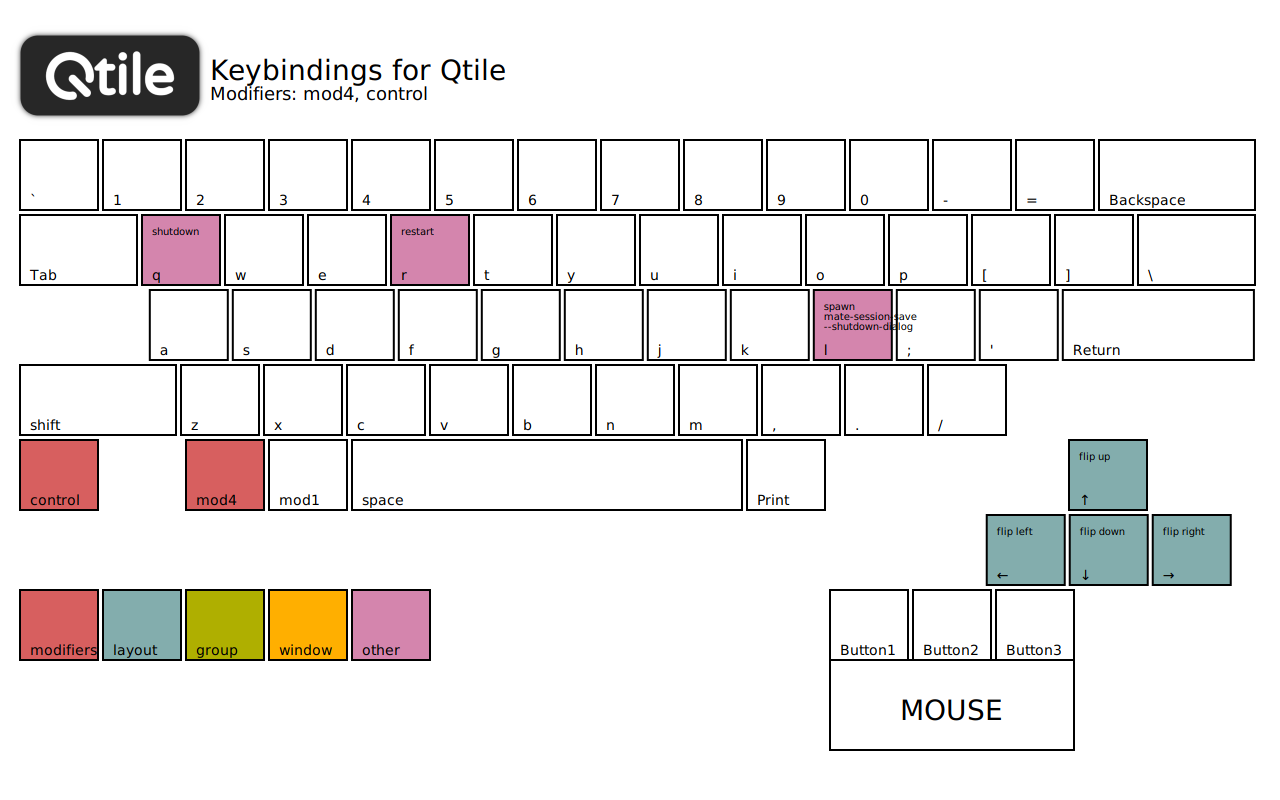
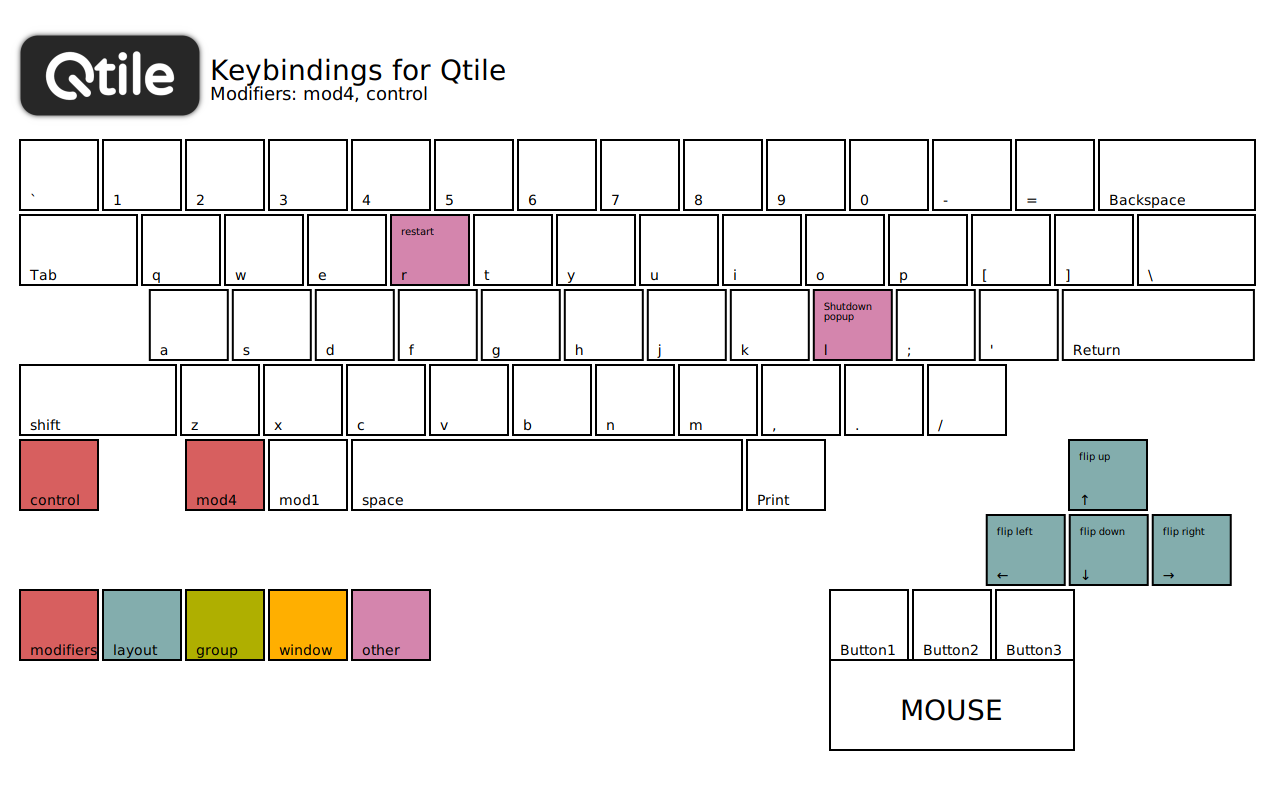
update descriptions & keymap

Changed region(s): [[0.0938, 0.25, 0.1875, 0.375], [0.625, 0.375, 0.7188, 0.4375]]

diff --git a/config.py b/config.py
@@ -94,15 +94,15 @@ def goToUrgent(qtile):
 
 keys = [ # {{{
     # Custom commands
-    Key([mod], "r", raiseFloatingWindows),
-    Key([mod], "o", moveToNextScreen),
-    Key([mod], "p", lazy.next_screen()),
-    Key([mod], "e", lazy.spawn('rofi -p "Go to" -show combi -modi combi -combi-modi window')),
-    Key([mod], "y", lazy.spawn('mymenu.sh')),
-    Key([mod], "d", lazy.spawn('doNotDisturb')),
-    Key([mod], "l", lazy.spawn('mate-screensaver-command -l')),
-    Key([mod, "control"], "l", lazy.spawn('mate-session-save --shutdown-dialog')),
-    Key([mod], "u", goToUrgent),
+    Key([mod], "r", raiseFloatingWindows, desc="raise floating"),
+    Key([mod], "o", moveToNextScreen, desc="move to next screen"),
+    Key([mod], "p", lazy.next_screen(), desc="go to next screen"),
+    Key([mod], "e", lazy.spawn('rofi -p "Go to" -show combi -modi combi -combi-modi window'), desc="window list"),
+    Key([mod], "y", lazy.spawn('mymenu.sh'), desc="shortcuts menu"),
+    Key([mod], "d", lazy.spawn('doNotDisturb'), desc="toggle notifications"),
+    Key([mod], "l", lazy.spawn('mate-screensaver-command -l'), desc="lock screen"),
+    Key([mod, "control"], "l", lazy.spawn('mate-session-save --shutdown-dialog'), desc="Shutdown popup"),
+    Key([mod], "u", goToUrgent, desc='Switch to urgent'),
     Key([mod], "s", lazy.window.toggle_floating()),
     Key([mod], "f", lazy.window.toggle_fullscreen()),
 
@@ -119,17 +119,17 @@ keys = [ # {{{
     Key([mod], "Right", lazy.layout.right()),
 
     # Move to group:
-    Key([mod], "j", lazy.function(moveToGroup, -1)),
-    Key([mod], "k", lazy.function(moveToGroup,1)),
+    Key([mod], "j", lazy.function(moveToGroup, -1), desc="prev group"),
+    Key([mod], "k", lazy.function(moveToGroup,1), desc="next group"),
 
-    Key([mod, "shift"], "j", lazy.function(moveToGroup, -1, True)),
-    Key([mod, "shift"], "k", lazy.function(moveToGroup,1, True)),
+    Key([mod, "shift"], "j", lazy.function(moveToGroup, -1, True), desc="prev used group"),
+    Key([mod, "shift"], "k", lazy.function(moveToGroup,1, True), desc="next used group"),
 
     # move to group + carry window:
-    Key([mod, "mod1"], "j", lazy.function(moveToGroup, -1, False, True)),
-    Key([mod, "mod1"], "k", lazy.function(moveToGroup,1, False, True)),
-    Key([mod, "mod1", "shift"], "j", lazy.function(moveToGroup, -1, True, True)),
-    Key([mod, "mod1", "shift"], "k", lazy.function(moveToGroup,1, True, True)),
+    Key([mod, "mod1"], "j", lazy.function(moveToGroup, -1, False, True), desc="move to prev group"),
+    Key([mod, "mod1"], "k", lazy.function(moveToGroup,1, False, True), desc="move to next group"),
+    Key([mod, "mod1", "shift"], "j", lazy.function(moveToGroup, -1, True, True), desc="move to prev used group"),
+    Key([mod, "mod1", "shift"], "k", lazy.function(moveToGroup,1, True, True), desc="move to next used group"),
 
     # Move windows up or down in current stack
     Key([mod, "mod1"], "Up", lazy.layout.shuffle_up()),
@@ -169,7 +169,7 @@ keys = [ # {{{
     Key([mod], "c", lazy.window.kill()),
 
     Key([mod, "control"], "r", lazy.restart()),
-    Key([mod, "control"], "q", lazy.shutdown()),
+#     Key([mod, "control"], "q", lazy.shutdown()),
 ] # }}}
 
 # Groups definition {{{
